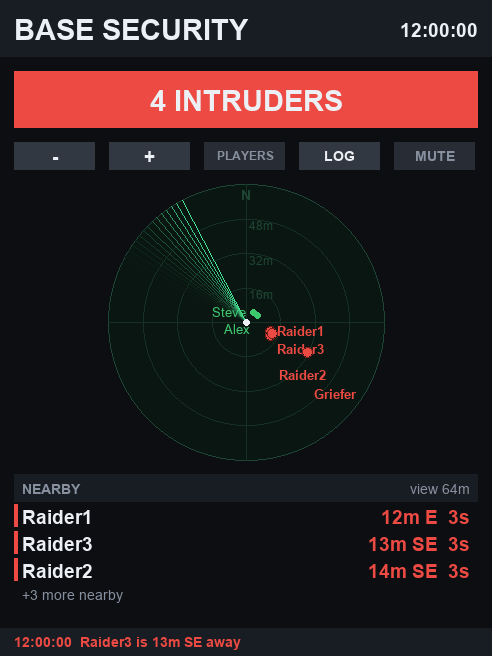
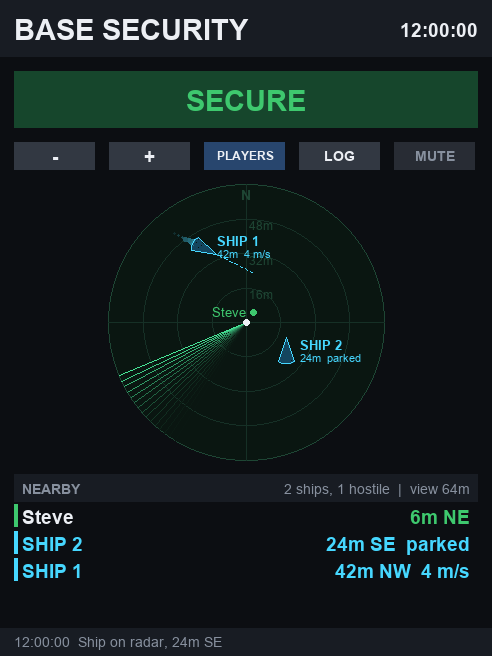
Make ships stand out on the radar
Ships show in every mode as numbered cyan hulls pointing along their
heading, with a wake, a 5-second projected path, distance and speed
measured from their movement, and their own rows under Nearby.

diff --git a/README.md b/README.md
@@ -30,7 +30,7 @@ Any Create Radar on the computer or its cable is found automatically (anything w
 - **THREATS**: plus hostile mobs, projectiles, ships, and players the detector can't see (shown as amber `?`).
 - **ALL**: everything except dropped items.
 
-Radar players standing where the detector sees someone get that player's name and color. Ships show as blue diamonds with a velocity arrow, and new ships are noted in the log (`SHIP_WARN = true` also toasts the allowed list). Tracks are placed using the calibrated detector position (or a plane radar's own position), so calibrate first. Zoom can go out to the radar's range. `RADAR_MODE` sets the starting mode.
+Radar players standing where the detector sees someone get that player's name and color. Ships show in every mode as numbered cyan hulls (SHIP 1, SHIP 2...) pointing the way they're heading, with a wake, a dashed line to where they'll be in 5 seconds, distance and measured speed (or "parked"); they also get their own rows under Nearby. New ships are noted in the log (`SHIP_WARN = true` also toasts the allowed list). Tracks are placed using the calibrated detector position (or a plane radar's own position), so calibrate first. Zoom can go out to the radar's range. `RADAR_MODE` sets the starting mode.
 
 ## Monitor controls
 
